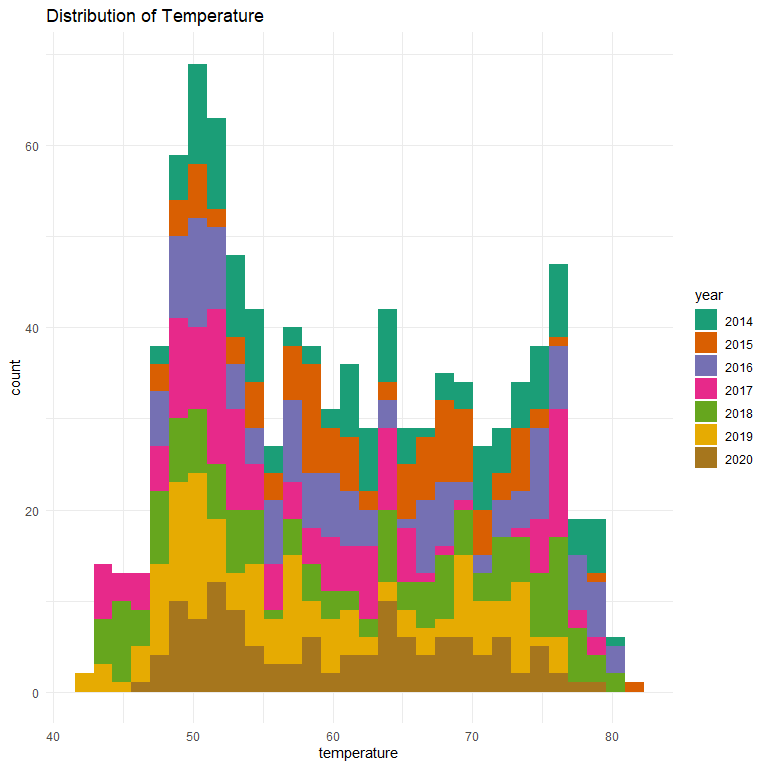
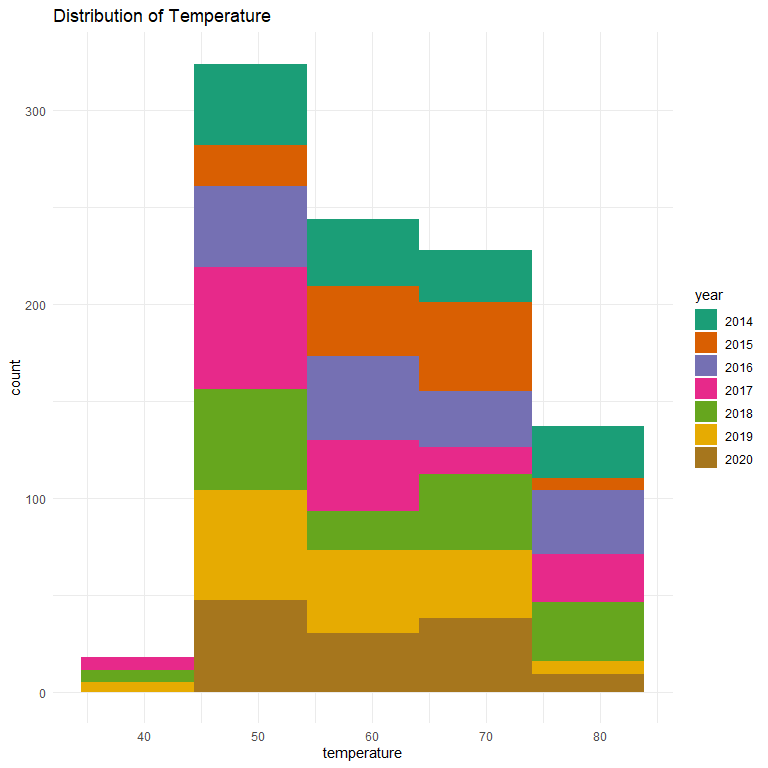
added issues

diff --git a/scripts/deer-creek-upstream-passage-monitoring/deer-creek-upstream-passage-monitoring.md b/scripts/deer-creek-upstream-passage-monitoring/deer-creek-upstream-passage-monitoring.md
@@ -13,6 +13,8 @@ Inigo Peng
 
 **Completeness of Record throughout timeframe:**
 
+Some missing data for variable flow
+
 **Sampling Location:**
 
 -   SVRIC Dam
@@ -161,7 +163,7 @@ cleaner_data %>%
 
 **NA and Unknown Values**
 
--   0 % of values in the `date` column are NA.
+-   0 % of values in the `count` column are NA.
 
 ### Variable:`flow`
 
@@ -216,7 +218,7 @@ cleaner_data %>%
 
 **NA and Unknown Values**
 
--   0 % of values in the `date` column are NA.
+-   14.7 % of values in the `flow` column are NA.
 
 ### Variable:`temperature`
 
@@ -247,12 +249,10 @@ cleaner_data %>%
   mutate(year = as.factor(year(date))) %>% 
   ggplot(aes(x=temperature, fill = year))+
   scale_fill_brewer(palette = "Dark2")+
-  geom_histogram(bin = 5)+
+  geom_histogram(bins = 5)+
   theme_minimal()+
   labs(title = "Distribution of Temperature")
 ```
-
-    ## `stat_bin()` using `bins = 30`. Pick better value with `binwidth`.
 
 ![](deer-creek-upstream-passage-monitoring_files/figure-gfm/unnamed-chunk-13-1.png)<!-- -->
 
@@ -271,7 +271,13 @@ cleaner_data %>%
 
 **NA and Unknown Values**
 
--   0 % of values in the `date` column are NA.
+-   0 % of values in the `temperature` column are NA.
+
+### Notes and Issues
+
+-   Temperature in F? Need to double check
+
+-   Units for flow?
 
 ### Add cleaned data back onto google cloud
 
@@ -295,28 +301,28 @@ gcs_upload(deer_upstream_estimate,
            name = "adult-upstream-passage-monitoring/deer-creek/data/deer_upstream_estimate.csv")
 ```
 
-    ## i 2021-10-29 14:48:06 > File size detected as  39.7 Kb
+    ## i 2021-11-02 11:14:19 > File size detected as  39.7 Kb
 
-    ## i 2021-10-29 14:48:06 > Request Status Code:  400
+    ## i 2021-11-02 11:14:19 > Request Status Code:  400
 
     ## ! API returned: Cannot insert legacy ACL for an object when uniform bucket-level access is enabled. Read more at https://cloud.google.com/storage/docs/uniform-bucket-level-access - Retrying with predefinedAcl='bucketLevel'
 
-    ## i 2021-10-29 14:48:06 > File size detected as  39.7 Kb
+    ## i 2021-11-02 11:14:19 > File size detected as  39.7 Kb
 
     ## ==Google Cloud Storage Object==
     ## Name:                adult-upstream-passage-monitoring/deer-creek/data/deer_upstream_estimate.csv 
     ## Type:                csv 
     ## Size:                39.7 Kb 
-    ## Media URL:           https://www.googleapis.com/download/storage/v1/b/jpe-dev-bucket/o/adult-upstream-passage-monitoring%2Fdeer-creek%2Fdata%2Fdeer_upstream_estimate.csv?generation=1635544085341994&alt=media 
+    ## Media URL:           https://www.googleapis.com/download/storage/v1/b/jpe-dev-bucket/o/adult-upstream-passage-monitoring%2Fdeer-creek%2Fdata%2Fdeer_upstream_estimate.csv?generation=1635876858283709&alt=media 
     ## Download URL:        https://storage.cloud.google.com/jpe-dev-bucket/adult-upstream-passage-monitoring%2Fdeer-creek%2Fdata%2Fdeer_upstream_estimate.csv 
     ## Public Download URL: https://storage.googleapis.com/jpe-dev-bucket/adult-upstream-passage-monitoring%2Fdeer-creek%2Fdata%2Fdeer_upstream_estimate.csv 
     ## Bucket:              jpe-dev-bucket 
-    ## ID:                  jpe-dev-bucket/adult-upstream-passage-monitoring/deer-creek/data/deer_upstream_estimate.csv/1635544085341994 
+    ## ID:                  jpe-dev-bucket/adult-upstream-passage-monitoring/deer-creek/data/deer_upstream_estimate.csv/1635876858283709 
     ## MD5 Hash:            dI/7L2VfXjDaa1EtkStXww== 
     ## Class:               STANDARD 
-    ## Created:             2021-10-29 21:48:05 
-    ## Updated:             2021-10-29 21:48:05 
-    ## Generation:          1635544085341994 
+    ## Created:             2021-11-02 18:14:18 
+    ## Updated:             2021-11-02 18:14:18 
+    ## Generation:          1635876858283709 
     ## Meta Generation:     1 
-    ## eTag:                CKrO4sHM8PMCEAE= 
+    ## eTag:                CL2No5ik+vMCEAE= 
     ## crc32c:              YZr+oA==
